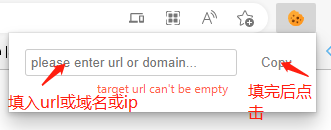
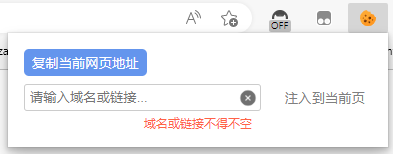
chore: 修改使用说明

diff --git a/src/options.html b/src/options.html
@@ -7,7 +7,7 @@
   <body>
     <div class="instructions-container">
         <h1>使用说明</h1>
-        <div>把需要拷贝的cookie所在目标网址(如：https://www.baidu.com), 也可以是域名形式（如：baidu.com）, 或者是IP形式（如：10.199.20.84)复制到输入框后，点击Copy按钮，就会把该域名的所有cookie导入到当前操作页面, 如下图：</div>
+        <div>把需要拷贝的cookie所在目标网址(如：https://www.baidu.com), 也可以是域名形式（如：baidu.com）, 或者是IP形式（如：10.199.20.84)复制到输入框后（或点击拷贝当前网址一键填入），点击注入按钮，就会把该域名的所有cookie导入到当前操作页面, 如下图：</div>
         <img src="./static/images/eg.png" alt="">
         <img src="./static/images/success.png" alt="">
         <div>有时会出现拷贝某个cookie失败的情况，一般是因为该cookie sameSite为strict或者是设置了secure。出于安全策略，这类cookie目前不可复制</div>
